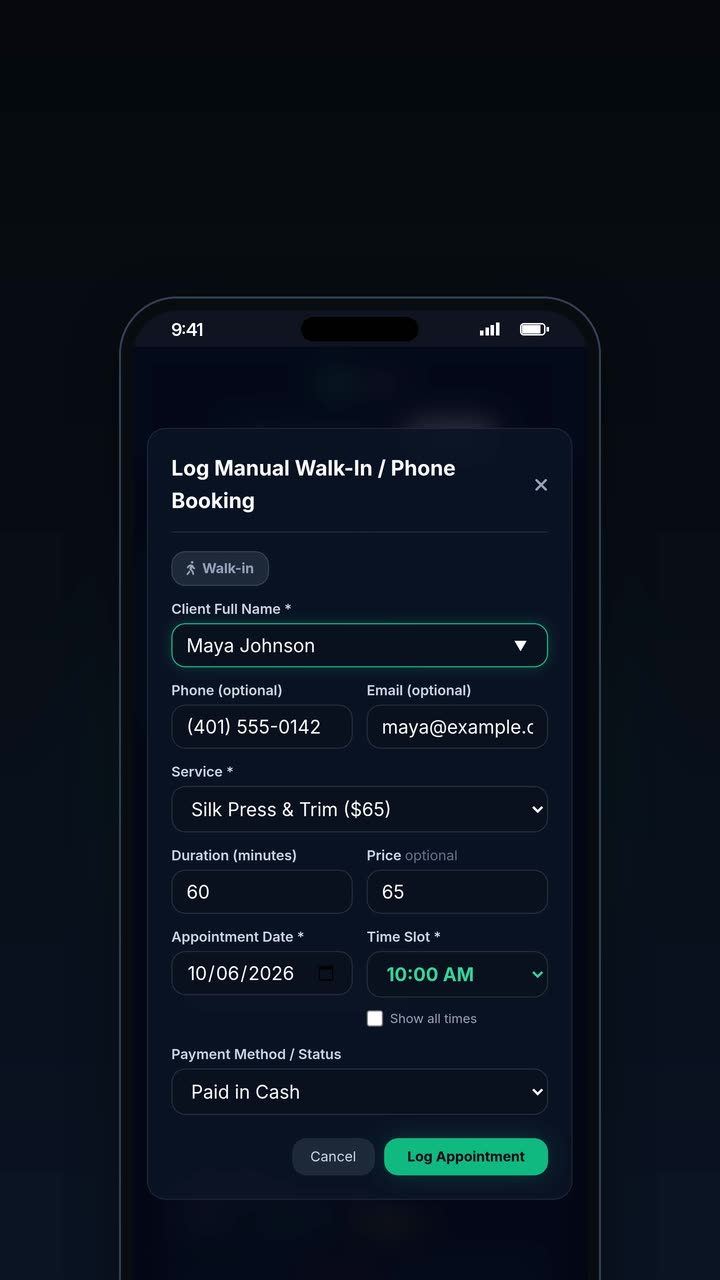
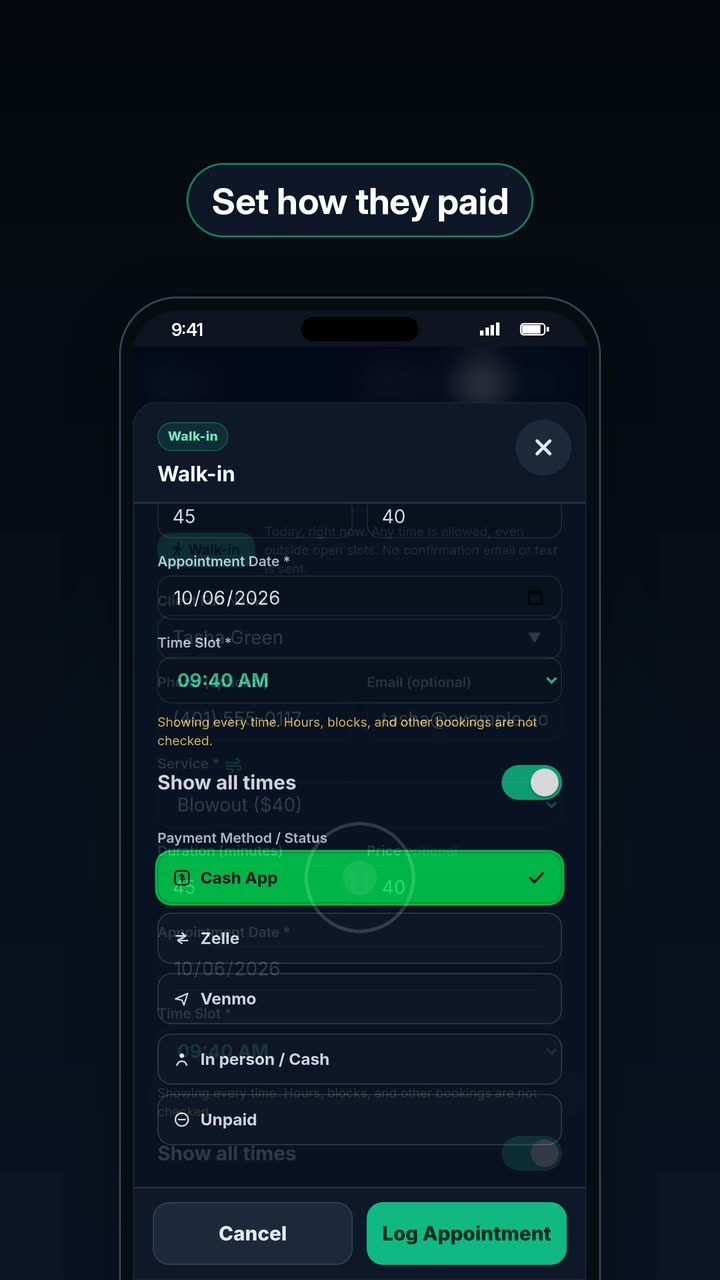
Label the re-shot walk-in help clip 0:22 and cache-bust clips at v=13.
The new poster for Add a walk-in or phone booking is included. Payment options stays at 0:28.

diff --git a/index.html b/index.html
@@ -9862,7 +9862,7 @@ body.schedi-newbook .schedi-manage-card #manageSlots button { min-height: 44px; 
         }
 
         // Help page tutorial videos (files in /assets/help-videos/). preload="none" + poster keeps page load light.
-        var SCHEDI_HELP_VIDEOS = [{"slug": "client-booking-demo", "file": "client-booking-demo.mp4?v=12", "poster": "client-booking-demo.jpg?v=12", "title": "How clients book", "desc": "Clients pick a service, a day and time, enter their info, choose how to pay, and send the request.", "dur": "0:30", "aud": "client"}, {"slug": "owner-01-create-your-page", "file": "owner-01-create-your-page.mp4?v=12", "poster": "owner-01-create-your-page.jpg?v=12", "title": "Create your booking page", "desc": "Sign up, get your free page, and compare Free, Starter, and Pro.", "dur": "0:24", "aud": "owner"}, {"slug": "owner-02-add-services", "file": "owner-02-add-services.mp4?v=12", "poster": "owner-02-add-services.jpg?v=12", "title": "Add your services", "desc": "Add each service with its length and an optional price.", "dur": "0:21", "aud": "owner"}, {"slug": "owner-03-set-hours", "file": "owner-03-set-hours.mp4?v=12", "poster": "owner-03-set-hours.jpg?v=12", "title": "Set your hours", "desc": "Pick the days you work and your open and close times.", "dur": "0:20", "aud": "owner"}, {"slug": "owner-04-payment-options", "file": "owner-04-payment-options.mp4?v=12", "poster": "owner-04-payment-options.jpg?v=12", "title": "Payment options", "desc": "Turn on Cash App, Zelle, Venmo, or PayPal (Starter and Pro) or keep pay at appointment.", "dur": "0:28", "aud": "owner"}, {"slug": "owner-05-share-booking-link", "file": "owner-05-share-booking-link.mp4?v=12", "poster": "owner-05-share-booking-link.jpg?v=12", "title": "Share your booking link", "desc": "Copy or Share your link from the top of your portal. Open Public Page and Add to home screen are in More & settings.", "dur": "0:20", "aud": "owner"}, {"slug": "owner-06-accept-booking-request", "file": "owner-06-accept-booking-request.mp4?v=12", "poster": "owner-06-accept-booking-request.jpg?v=12", "title": "Accept a booking request", "desc": "On phones, each booking is a card; tap Accept and it shows as Accepted (Starter and Pro).", "dur": "0:20", "aud": "owner"}, {"slug": "owner-07-appointments-report", "file": "owner-07-appointments-report.mp4?v=12", "poster": "owner-07-appointments-report.jpg?v=12", "title": "Reports", "desc": "See counts, recorded prices, marked paid, and walk-ins; export CSV or print.", "dur": "0:21", "aud": "owner"}, {"slug": "owner-08-add-manual-appointment", "file": "owner-08-add-manual-appointment.mp4?v=12", "poster": "owner-08-add-manual-appointment.jpg?v=12", "title": "Add a walk-in or phone booking", "desc": "Log a walk-in or phone booking with the Walk-in toggle, saved-client suggest, open time slot, and payment status.", "dur": "0:28", "aud": "owner"}, {"slug": "owner-09-mark-paid", "file": "owner-09-mark-paid.mp4?v=12", "poster": "owner-09-mark-paid.jpg?v=12", "title": "Mark an appointment paid", "desc": "Tap Mark paid, pick how the client paid, and the booking turns green.", "dur": "0:22", "aud": "owner"}, {"slug": "owner-10-reschedule", "file": "owner-10-reschedule.mp4?v=12", "poster": "owner-10-reschedule.jpg?v=12", "title": "Reschedule an appointment", "desc": "Pick a new date and an open time slot, then tap Update Reservation.", "dur": "0:23", "aud": "owner"}, {"slug": "owner-11-cancel-appointment", "file": "owner-11-cancel-appointment.mp4?v=12", "poster": "owner-11-cancel-appointment.jpg?v=12", "title": "Cancel an appointment", "desc": "Tap Cancel and confirm; the booking stays on your roster as Cancelled.", "dur": "0:20", "aud": "owner"}, {"slug": "owner-12-special-hours", "file": "owner-12-special-hours.mp4?v=12", "poster": "owner-12-special-hours.jpg?v=12", "title": "Special hours", "desc": "Close or change your hours for one date without touching your weekly hours.", "dur": "0:21", "aud": "owner"}, {"slug": "owner-13-date-blocks", "file": "owner-13-date-blocks.mp4?v=12", "poster": "owner-13-date-blocks.jpg?v=12", "title": "Time off and vacation", "desc": "Block a range of dates so clients cannot book them.", "dur": "0:22", "aud": "owner"}, {"slug": "owner-14-email-confirmations", "file": "owner-14-email-confirmations.mp4?v=12", "poster": "owner-14-email-confirmations.jpg?v=12", "title": "Email confirmations and reminders", "desc": "Set your Reply-To email, an extra note, and same-day reminder emails.", "dur": "0:23", "aud": "owner"}, {"slug": "owner-15-recurring-visits-pro", "file": "owner-15-recurring-visits-pro.mp4?v=12", "poster": "owner-15-recurring-visits-pro.jpg?v=12", "title": "Recurring appointments (Pro)", "desc": "On Pro, let clients book weekly, biweekly, or monthly; off until you turn it on.", "dur": "0:21", "aud": "owner"}, {"slug": "owner-16-clients", "file": "owner-16-clients.mp4?v=12", "poster": "owner-16-clients.jpg?v=12", "title": "Clients list", "desc": "Search, add, or remove clients. Auto-added clients show From booking since...", "dur": "0:24", "aud": "owner"}, {"slug": "owner-17-import-clients-csv", "file": "owner-17-import-clients-csv.mp4?v=12", "poster": "owner-17-import-clients-csv.jpg?v=12", "title": "Import clients from CSV", "desc": "Upload a CSV, match columns, preview, and import. Schedi never emails imports.", "dur": "0:22", "aud": "owner"}, {"slug": "owner-18-compare-plans", "file": "owner-18-compare-plans.mp4?v=12", "poster": "owner-18-compare-plans.jpg?v=12", "title": "Compare Plans", "desc": "Open the Free / Starter / Pro chart from your Schedi subscription card (below More & settings), including Agency Management on Pro.", "dur": "0:18", "aud": "owner"}, {"slug": "owner-19-roster-week-month", "file": "owner-19-roster-week-month.mp4?v=12", "poster": "owner-19-roster-week-month.jpg?v=12", "title": "Week and month roster", "desc": "Switch to Week or Month, move with Previous, Next, or Today, tap a booking for details, and tap a busy day.", "dur": "0:22", "aud": "owner"}, {"slug": "owner-20-booking-alerts-iphone", "file": "owner-20-booking-alerts-iphone.mp4?v=12", "poster": "owner-20-booking-alerts-iphone.jpg?v=12", "title": "Booking alerts on iPhone", "desc": "Turn on a pop-up on your iPhone when a booking comes in.", "dur": "", "aud": "owner", "kind": "guide"}, {"slug": "owner-22-booking-alerts-android", "file": "owner-22-booking-alerts-android.mp4?v=12", "poster": "owner-22-booking-alerts-android.jpg?v=12", "title": "Booking alerts on Android (Chrome)", "desc": "Turn on a pop-up in Chrome on Android when a booking comes in.", "dur": "0:29", "aud": "owner"}, {"slug": "owner-21-booking-qr-code", "file": "owner-21-booking-qr-code.mp4?v=12", "poster": "owner-21-booking-qr-code.jpg?v=12", "title": "Booking QR code", "desc": "How to show, generate, download or print, and save your booking QR code.", "dur": "", "aud": "owner"}];
+        var SCHEDI_HELP_VIDEOS = [{"slug": "client-booking-demo", "file": "client-booking-demo.mp4?v=13", "poster": "client-booking-demo.jpg?v=13", "title": "How clients book", "desc": "Clients pick a service, a day and time, enter their info, choose how to pay, and send the request.", "dur": "0:30", "aud": "client"}, {"slug": "owner-01-create-your-page", "file": "owner-01-create-your-page.mp4?v=13", "poster": "owner-01-create-your-page.jpg?v=13", "title": "Create your booking page", "desc": "Sign up, get your free page, and compare Free, Starter, and Pro.", "dur": "0:24", "aud": "owner"}, {"slug": "owner-02-add-services", "file": "owner-02-add-services.mp4?v=13", "poster": "owner-02-add-services.jpg?v=13", "title": "Add your services", "desc": "Add each service with its length and an optional price.", "dur": "0:21", "aud": "owner"}, {"slug": "owner-03-set-hours", "file": "owner-03-set-hours.mp4?v=13", "poster": "owner-03-set-hours.jpg?v=13", "title": "Set your hours", "desc": "Pick the days you work and your open and close times.", "dur": "0:20", "aud": "owner"}, {"slug": "owner-04-payment-options", "file": "owner-04-payment-options.mp4?v=13", "poster": "owner-04-payment-options.jpg?v=13", "title": "Payment options", "desc": "Turn on Cash App, Zelle, Venmo, or PayPal (Starter and Pro) or keep pay at appointment.", "dur": "0:28", "aud": "owner"}, {"slug": "owner-05-share-booking-link", "file": "owner-05-share-booking-link.mp4?v=13", "poster": "owner-05-share-booking-link.jpg?v=13", "title": "Share your booking link", "desc": "Copy or Share your link from the top of your portal. Open Public Page and Add to home screen are in More & settings.", "dur": "0:20", "aud": "owner"}, {"slug": "owner-06-accept-booking-request", "file": "owner-06-accept-booking-request.mp4?v=13", "poster": "owner-06-accept-booking-request.jpg?v=13", "title": "Accept a booking request", "desc": "On phones, each booking is a card; tap Accept and it shows as Accepted (Starter and Pro).", "dur": "0:20", "aud": "owner"}, {"slug": "owner-07-appointments-report", "file": "owner-07-appointments-report.mp4?v=13", "poster": "owner-07-appointments-report.jpg?v=13", "title": "Reports", "desc": "See counts, recorded prices, marked paid, and walk-ins; export CSV or print.", "dur": "0:21", "aud": "owner"}, {"slug": "owner-08-add-manual-appointment", "file": "owner-08-add-manual-appointment.mp4?v=13", "poster": "owner-08-add-manual-appointment.jpg?v=13", "title": "Add a walk-in or phone booking", "desc": "Log a walk-in or phone booking with the Walk-in toggle, saved-client suggest, open time slot, and payment status.", "dur": "0:22", "aud": "owner"}, {"slug": "owner-09-mark-paid", "file": "owner-09-mark-paid.mp4?v=13", "poster": "owner-09-mark-paid.jpg?v=13", "title": "Mark an appointment paid", "desc": "Tap Mark paid, pick how the client paid, and the booking turns green.", "dur": "0:22", "aud": "owner"}, {"slug": "owner-10-reschedule", "file": "owner-10-reschedule.mp4?v=13", "poster": "owner-10-reschedule.jpg?v=13", "title": "Reschedule an appointment", "desc": "Pick a new date and an open time slot, then tap Update Reservation.", "dur": "0:23", "aud": "owner"}, {"slug": "owner-11-cancel-appointment", "file": "owner-11-cancel-appointment.mp4?v=13", "poster": "owner-11-cancel-appointment.jpg?v=13", "title": "Cancel an appointment", "desc": "Tap Cancel and confirm; the booking stays on your roster as Cancelled.", "dur": "0:20", "aud": "owner"}, {"slug": "owner-12-special-hours", "file": "owner-12-special-hours.mp4?v=13", "poster": "owner-12-special-hours.jpg?v=13", "title": "Special hours", "desc": "Close or change your hours for one date without touching your weekly hours.", "dur": "0:21", "aud": "owner"}, {"slug": "owner-13-date-blocks", "file": "owner-13-date-blocks.mp4?v=13", "poster": "owner-13-date-blocks.jpg?v=13", "title": "Time off and vacation", "desc": "Block a range of dates so clients cannot book them.", "dur": "0:22", "aud": "owner"}, {"slug": "owner-14-email-confirmations", "file": "owner-14-email-confirmations.mp4?v=13", "poster": "owner-14-email-confirmations.jpg?v=13", "title": "Email confirmations and reminders", "desc": "Set your Reply-To email, an extra note, and same-day reminder emails.", "dur": "0:23", "aud": "owner"}, {"slug": "owner-15-recurring-visits-pro", "file": "owner-15-recurring-visits-pro.mp4?v=13", "poster": "owner-15-recurring-visits-pro.jpg?v=13", "title": "Recurring appointments (Pro)", "desc": "On Pro, let clients book weekly, biweekly, or monthly; off until you turn it on.", "dur": "0:21", "aud": "owner"}, {"slug": "owner-16-clients", "file": "owner-16-clients.mp4?v=13", "poster": "owner-16-clients.jpg?v=13", "title": "Clients list", "desc": "Search, add, or remove clients. Auto-added clients show From booking since...", "dur": "0:24", "aud": "owner"}, {"slug": "owner-17-import-clients-csv", "file": "owner-17-import-clients-csv.mp4?v=13", "poster": "owner-17-import-clients-csv.jpg?v=13", "title": "Import clients from CSV", "desc": "Upload a CSV, match columns, preview, and import. Schedi never emails imports.", "dur": "0:22", "aud": "owner"}, {"slug": "owner-18-compare-plans", "file": "owner-18-compare-plans.mp4?v=13", "poster": "owner-18-compare-plans.jpg?v=13", "title": "Compare Plans", "desc": "Open the Free / Starter / Pro chart from your Schedi subscription card (below More & settings), including Agency Management on Pro.", "dur": "0:18", "aud": "owner"}, {"slug": "owner-19-roster-week-month", "file": "owner-19-roster-week-month.mp4?v=13", "poster": "owner-19-roster-week-month.jpg?v=13", "title": "Week and month roster", "desc": "Switch to Week or Month, move with Previous, Next, or Today, tap a booking for details, and tap a busy day.", "dur": "0:22", "aud": "owner"}, {"slug": "owner-20-booking-alerts-iphone", "file": "owner-20-booking-alerts-iphone.mp4?v=13", "poster": "owner-20-booking-alerts-iphone.jpg?v=13", "title": "Booking alerts on iPhone", "desc": "Turn on a pop-up on your iPhone when a booking comes in.", "dur": "", "aud": "owner", "kind": "guide"}, {"slug": "owner-22-booking-alerts-android", "file": "owner-22-booking-alerts-android.mp4?v=13", "poster": "owner-22-booking-alerts-android.jpg?v=13", "title": "Booking alerts on Android (Chrome)", "desc": "Turn on a pop-up in Chrome on Android when a booking comes in.", "dur": "0:29", "aud": "owner"}, {"slug": "owner-21-booking-qr-code", "file": "owner-21-booking-qr-code.mp4?v=13", "poster": "owner-21-booking-qr-code.jpg?v=13", "title": "Booking QR code", "desc": "How to show, generate, download or print, and save your booking QR code.", "dur": "", "aud": "owner"}];
         var SCHEDI_HELP_VIDEO_GROUPS = [["Get set up", ["owner-01-create-your-page", "owner-02-add-services", "owner-03-set-hours", "owner-04-payment-options", "owner-05-share-booking-link", "owner-21-booking-qr-code", "owner-18-compare-plans"]], ["Bookings and the roster", ["owner-06-accept-booking-request", "owner-08-add-manual-appointment", "owner-09-mark-paid", "owner-10-reschedule", "owner-11-cancel-appointment", "owner-07-appointments-report", "owner-19-roster-week-month"]], ["Clients", ["owner-16-clients", "owner-17-import-clients-csv"]], ["Hours and time off", ["owner-12-special-hours", "owner-13-date-blocks"]], ["Emails and Pro features", ["owner-14-email-confirmations", "owner-15-recurring-visits-pro", "owner-20-booking-alerts-iphone", "owner-22-booking-alerts-android"]], ["What your clients see", ["client-booking-demo"]]];
         function schediHelpVideoPlayer(v) {
             var base = '/assets/help-videos/';

diff --git a/site/hq.html b/site/hq.html
@@ -5015,7 +5015,7 @@ html.schedi-newhq #hqDash [data-hqd-view][hidden] { display: none !important; }
         }
 
         // Help page tutorial videos (files in /assets/help-videos/). preload="none" + poster keeps page load light.
-        var SCHEDI_HELP_VIDEOS = [{"slug": "client-booking-demo", "file": "client-booking-demo.mp4?v=5", "poster": "client-booking-demo.jpg?v=5", "title": "How clients book", "desc": "Clients pick a service, a day and time, enter their info, choose how to pay, and send the request.", "dur": "0:30", "aud": "client"}, {"slug": "owner-01-create-your-page", "file": "owner-01-create-your-page.mp4?v=8", "poster": "owner-01-create-your-page.jpg?v=8", "title": "Create your booking page", "desc": "Sign up, get your free page, and compare Free, Starter, and Pro.", "dur": "0:24", "aud": "owner"}, {"slug": "owner-02-add-services", "file": "owner-02-add-services.mp4?v=8", "poster": "owner-02-add-services.jpg?v=8", "title": "Add your services", "desc": "Add each service with its length and an optional price.", "dur": "0:21", "aud": "owner"}, {"slug": "owner-03-set-hours", "file": "owner-03-set-hours.mp4?v=7", "poster": "owner-03-set-hours.jpg?v=7", "title": "Set your hours", "desc": "Pick the days you work and your open and close times.", "dur": "0:20", "aud": "owner"}, {"slug": "owner-04-payment-options", "file": "owner-04-payment-options.mp4?v=7", "poster": "owner-04-payment-options.jpg?v=7", "title": "Payment options", "desc": "Turn on Cash App, Zelle, Venmo, or PayPal (Starter and Pro) or keep pay at appointment.", "dur": "0:28", "aud": "owner"}, {"slug": "owner-05-share-booking-link", "file": "owner-05-share-booking-link.mp4?v=8", "poster": "owner-05-share-booking-link.jpg?v=8", "title": "Share your booking link", "desc": "Copy or Share your link from the top of your portal. Open Public Page and Add to home screen are in More & settings.", "dur": "0:20", "aud": "owner"}, {"slug": "owner-06-accept-booking-request", "file": "owner-06-accept-booking-request.mp4?v=8", "poster": "owner-06-accept-booking-request.jpg?v=8", "title": "Accept a booking request", "desc": "On phones, each booking is a card; tap Accept and it shows as Accepted (Starter and Pro).", "dur": "0:20", "aud": "owner"}, {"slug": "owner-07-appointments-report", "file": "owner-07-appointments-report.mp4?v=8", "poster": "owner-07-appointments-report.jpg?v=8", "title": "Appointments report", "desc": "See counts, recorded prices, marked paid, and walk-ins; export CSV or print.", "dur": "0:21", "aud": "owner"}, {"slug": "owner-08-add-manual-appointment", "file": "owner-08-add-manual-appointment.mp4?v=8", "poster": "owner-08-add-manual-appointment.jpg?v=8", "title": "Add a walk-in or phone booking", "desc": "Log a walk-in or phone booking with the Walk-in toggle, saved-client suggest, open time slot, and payment status.", "dur": "0:28", "aud": "owner"}, {"slug": "owner-09-mark-paid", "file": "owner-09-mark-paid.mp4?v=8", "poster": "owner-09-mark-paid.jpg?v=8", "title": "Mark an appointment paid", "desc": "Tap Mark paid, pick how the client paid, and the booking turns green.", "dur": "0:22", "aud": "owner"}, {"slug": "owner-10-reschedule", "file": "owner-10-reschedule.mp4?v=8", "poster": "owner-10-reschedule.jpg?v=8", "title": "Reschedule an appointment", "desc": "Pick a new date and an open time slot, then tap Update Reservation.", "dur": "0:23", "aud": "owner"}, {"slug": "owner-11-cancel-appointment", "file": "owner-11-cancel-appointment.mp4?v=8", "poster": "owner-11-cancel-appointment.jpg?v=8", "title": "Cancel an appointment", "desc": "Tap Cancel and confirm; the booking stays on your roster as Cancelled.", "dur": "0:20", "aud": "owner"}, {"slug": "owner-12-special-hours", "file": "owner-12-special-hours.mp4?v=8", "poster": "owner-12-special-hours.jpg?v=8", "title": "Special hours", "desc": "Close or change your hours for one date without touching your weekly hours.", "dur": "0:21", "aud": "owner"}, {"slug": "owner-13-date-blocks", "file": "owner-13-date-blocks.mp4?v=8", "poster": "owner-13-date-blocks.jpg?v=8", "title": "Vacation and date blocks", "desc": "Block a range of dates so clients cannot book them.", "dur": "0:22", "aud": "owner"}, {"slug": "owner-14-email-confirmations", "file": "owner-14-email-confirmations.mp4?v=7", "poster": "owner-14-email-confirmations.jpg?v=7", "title": "Email confirmations and reminders", "desc": "Set your Reply-To email, an extra note, and same-day reminder emails.", "dur": "0:23", "aud": "owner"}, {"slug": "owner-15-recurring-visits-pro", "file": "owner-15-recurring-visits-pro.mp4?v=7", "poster": "owner-15-recurring-visits-pro.jpg?v=7", "title": "Recurring appointments (Pro)", "desc": "On Pro, let clients book weekly, biweekly, or monthly; off until you turn it on.", "dur": "0:21", "aud": "owner"}, {"slug": "owner-16-clients", "file": "owner-16-clients.mp4?v=7", "poster": "owner-16-clients.jpg?v=7", "title": "Clients list", "desc": "Search, add, or remove clients. Auto-added clients show From booking since...", "dur": "0:24", "aud": "owner"}, {"slug": "owner-17-import-clients-csv", "file": "owner-17-import-clients-csv.mp4?v=8", "poster": "owner-17-import-clients-csv.jpg?v=8", "title": "Import clients from CSV", "desc": "Upload a CSV, match columns, preview, and import. Schedi never emails imports.", "dur": "0:22", "aud": "owner"}, {"slug": "owner-18-compare-plans", "file": "owner-18-compare-plans.mp4?v=8", "poster": "owner-18-compare-plans.jpg?v=8", "title": "Compare Plans", "desc": "Open the Free / Starter / Pro chart from your Schedi subscription card (below More & settings), including Agency Management on Pro.", "dur": "0:18", "aud": "owner"}, {"slug": "owner-19-roster-week-month", "file": "owner-19-roster-week-month.mp4?v=8", "poster": "owner-19-roster-week-month.jpg?v=8", "title": "Week and month roster", "desc": "Switch to Week or Month, move with Previous, Next, or Today, tap a booking for details, and tap a busy day.", "dur": "0:22", "aud": "owner"}];
+        var SCHEDI_HELP_VIDEOS = [{"slug": "client-booking-demo", "file": "client-booking-demo.mp4?v=5", "poster": "client-booking-demo.jpg?v=5", "title": "How clients book", "desc": "Clients pick a service, a day and time, enter their info, choose how to pay, and send the request.", "dur": "0:30", "aud": "client"}, {"slug": "owner-01-create-your-page", "file": "owner-01-create-your-page.mp4?v=8", "poster": "owner-01-create-your-page.jpg?v=8", "title": "Create your booking page", "desc": "Sign up, get your free page, and compare Free, Starter, and Pro.", "dur": "0:24", "aud": "owner"}, {"slug": "owner-02-add-services", "file": "owner-02-add-services.mp4?v=8", "poster": "owner-02-add-services.jpg?v=8", "title": "Add your services", "desc": "Add each service with its length and an optional price.", "dur": "0:21", "aud": "owner"}, {"slug": "owner-03-set-hours", "file": "owner-03-set-hours.mp4?v=7", "poster": "owner-03-set-hours.jpg?v=7", "title": "Set your hours", "desc": "Pick the days you work and your open and close times.", "dur": "0:20", "aud": "owner"}, {"slug": "owner-04-payment-options", "file": "owner-04-payment-options.mp4?v=7", "poster": "owner-04-payment-options.jpg?v=7", "title": "Payment options", "desc": "Turn on Cash App, Zelle, Venmo, or PayPal (Starter and Pro) or keep pay at appointment.", "dur": "0:28", "aud": "owner"}, {"slug": "owner-05-share-booking-link", "file": "owner-05-share-booking-link.mp4?v=8", "poster": "owner-05-share-booking-link.jpg?v=8", "title": "Share your booking link", "desc": "Copy or Share your link from the top of your portal. Open Public Page and Add to home screen are in More & settings.", "dur": "0:20", "aud": "owner"}, {"slug": "owner-06-accept-booking-request", "file": "owner-06-accept-booking-request.mp4?v=8", "poster": "owner-06-accept-booking-request.jpg?v=8", "title": "Accept a booking request", "desc": "On phones, each booking is a card; tap Accept and it shows as Accepted (Starter and Pro).", "dur": "0:20", "aud": "owner"}, {"slug": "owner-07-appointments-report", "file": "owner-07-appointments-report.mp4?v=8", "poster": "owner-07-appointments-report.jpg?v=8", "title": "Appointments report", "desc": "See counts, recorded prices, marked paid, and walk-ins; export CSV or print.", "dur": "0:21", "aud": "owner"}, {"slug": "owner-08-add-manual-appointment", "file": "owner-08-add-manual-appointment.mp4?v=8", "poster": "owner-08-add-manual-appointment.jpg?v=8", "title": "Add a walk-in or phone booking", "desc": "Log a walk-in or phone booking with the Walk-in toggle, saved-client suggest, open time slot, and payment status.", "dur": "0:22", "aud": "owner"}, {"slug": "owner-09-mark-paid", "file": "owner-09-mark-paid.mp4?v=8", "poster": "owner-09-mark-paid.jpg?v=8", "title": "Mark an appointment paid", "desc": "Tap Mark paid, pick how the client paid, and the booking turns green.", "dur": "0:22", "aud": "owner"}, {"slug": "owner-10-reschedule", "file": "owner-10-reschedule.mp4?v=8", "poster": "owner-10-reschedule.jpg?v=8", "title": "Reschedule an appointment", "desc": "Pick a new date and an open time slot, then tap Update Reservation.", "dur": "0:23", "aud": "owner"}, {"slug": "owner-11-cancel-appointment", "file": "owner-11-cancel-appointment.mp4?v=8", "poster": "owner-11-cancel-appointment.jpg?v=8", "title": "Cancel an appointment", "desc": "Tap Cancel and confirm; the booking stays on your roster as Cancelled.", "dur": "0:20", "aud": "owner"}, {"slug": "owner-12-special-hours", "file": "owner-12-special-hours.mp4?v=8", "poster": "owner-12-special-hours.jpg?v=8", "title": "Special hours", "desc": "Close or change your hours for one date without touching your weekly hours.", "dur": "0:21", "aud": "owner"}, {"slug": "owner-13-date-blocks", "file": "owner-13-date-blocks.mp4?v=8", "poster": "owner-13-date-blocks.jpg?v=8", "title": "Vacation and date blocks", "desc": "Block a range of dates so clients cannot book them.", "dur": "0:22", "aud": "owner"}, {"slug": "owner-14-email-confirmations", "file": "owner-14-email-confirmations.mp4?v=7", "poster": "owner-14-email-confirmations.jpg?v=7", "title": "Email confirmations and reminders", "desc": "Set your Reply-To email, an extra note, and same-day reminder emails.", "dur": "0:23", "aud": "owner"}, {"slug": "owner-15-recurring-visits-pro", "file": "owner-15-recurring-visits-pro.mp4?v=7", "poster": "owner-15-recurring-visits-pro.jpg?v=7", "title": "Recurring appointments (Pro)", "desc": "On Pro, let clients book weekly, biweekly, or monthly; off until you turn it on.", "dur": "0:21", "aud": "owner"}, {"slug": "owner-16-clients", "file": "owner-16-clients.mp4?v=7", "poster": "owner-16-clients.jpg?v=7", "title": "Clients list", "desc": "Search, add, or remove clients. Auto-added clients show From booking since...", "dur": "0:24", "aud": "owner"}, {"slug": "owner-17-import-clients-csv", "file": "owner-17-import-clients-csv.mp4?v=8", "poster": "owner-17-import-clients-csv.jpg?v=8", "title": "Import clients from CSV", "desc": "Upload a CSV, match columns, preview, and import. Schedi never emails imports.", "dur": "0:22", "aud": "owner"}, {"slug": "owner-18-compare-plans", "file": "owner-18-compare-plans.mp4?v=8", "poster": "owner-18-compare-plans.jpg?v=8", "title": "Compare Plans", "desc": "Open the Free / Starter / Pro chart from your Schedi subscription card (below More & settings), including Agency Management on Pro.", "dur": "0:18", "aud": "owner"}, {"slug": "owner-19-roster-week-month", "file": "owner-19-roster-week-month.mp4?v=8", "poster": "owner-19-roster-week-month.jpg?v=8", "title": "Week and month roster", "desc": "Switch to Week or Month, move with Previous, Next, or Today, tap a booking for details, and tap a busy day.", "dur": "0:22", "aud": "owner"}];
         var SCHEDI_HELP_VIDEO_GROUPS = [["Get set up", ["owner-01-create-your-page", "owner-02-add-services", "owner-03-set-hours", "owner-04-payment-options", "owner-05-share-booking-link", "owner-18-compare-plans"]], ["Bookings and the roster", ["owner-06-accept-booking-request", "owner-08-add-manual-appointment", "owner-09-mark-paid", "owner-10-reschedule", "owner-11-cancel-appointment", "owner-07-appointments-report", "owner-19-roster-week-month"]], ["Clients", ["owner-16-clients", "owner-17-import-clients-csv"]], ["Hours and time off", ["owner-12-special-hours", "owner-13-date-blocks"]], ["Emails and Pro features", ["owner-14-email-confirmations", "owner-15-recurring-visits-pro"]], ["What your clients see", ["client-booking-demo"]]];
         function schediHelpVideoCard(v) {
             var base = '/assets/help-videos/';

diff --git a/worker/content.ts b/worker/content.ts
@@ -133,29 +133,29 @@ const noShow =
   "A no-show still costs the time you held. The reminder email is the nudge the morning of the visit. Pro includes card checkout (Stripe) and appointment deposits. Card checkout stays off until Stripe card payments and payouts are active. The deposit stays off until you turn it on. A cancellation rule can be shown on the page. Charging that fee on a card is coming soon.";
 
 const HELP_VIDEOS: { slug: string; title: string; desc: string; dur: string; v: number }[] = [
-  { slug: "owner-01-create-your-page", title: "Create your booking page", desc: "Sign up and get your booking page ready in a few minutes.", dur: "0:24", v: 12 },
-  { slug: "owner-02-add-services", title: "Add your services", desc: "Add each service with its length and an optional price.", dur: "0:21", v: 12 },
-  { slug: "owner-03-set-hours", title: "Set your hours", desc: "Pick the days you work and your open and close times.", dur: "0:20", v: 12 },
-  { slug: "owner-04-payment-options", title: "Payment options", desc: "Turn on Cash App, Zelle, Venmo, or PayPal, or keep pay at appointment.", dur: "0:28", v: 12 },
-  { slug: "owner-05-share-booking-link", title: "Share your booking link", desc: "Copy or Share your link from the top of your portal. Open Public Page and Add to home screen are in More & settings.", dur: "0:20", v: 12 },
-  { slug: "owner-06-accept-booking-request", title: "Accept a booking request", desc: "On phones, each booking is a card. Tap Accept and it shows as Accepted.", dur: "0:20", v: 12 },
-  { slug: "owner-07-appointments-report", title: "Reports", desc: "See counts, recorded prices, marked paid, and walk-ins; export CSV or print.", dur: "0:21", v: 12 },
-  { slug: "owner-08-add-manual-appointment", title: "Add a walk-in or phone booking", desc: "Log a walk-in or phone booking with the Walk-in toggle, saved-client suggest, open time slot, and payment status.", dur: "0:28", v: 12 },
-  { slug: "owner-09-mark-paid", title: "Mark an appointment paid", desc: "Tap Mark paid, pick how the client paid, and the booking turns green.", dur: "0:22", v: 12 },
-  { slug: "owner-10-reschedule", title: "Reschedule an appointment", desc: "Pick a new date and an open time slot, then tap Update Reservation.", dur: "0:23", v: 12 },
-  { slug: "owner-11-cancel-appointment", title: "Cancel an appointment", desc: "Tap Cancel and confirm; the booking stays on your roster as Cancelled.", dur: "0:20", v: 12 },
-  { slug: "owner-12-special-hours", title: "Special hours", desc: "Close or change your hours for one date without touching your weekly hours.", dur: "0:21", v: 12 },
-  { slug: "owner-13-date-blocks", title: "Time off and vacation", desc: "Block a range of dates so clients cannot book them.", dur: "0:22", v: 12 },
-  { slug: "owner-14-email-confirmations", title: "Email confirmations and reminders", desc: "Set your Reply-To email, an extra note, and same-day reminder emails.", dur: "0:23", v: 12 },
-  { slug: "owner-15-recurring-visits-pro", title: "Recurring appointments", desc: "Let clients book weekly, every two weeks, or monthly. It stays off until you turn it on.", dur: "0:21", v: 12 },
-  { slug: "owner-16-clients", title: "Clients list", desc: "Search, add, or remove clients. Clients added from a booking are labeled so you can tell.", dur: "0:24", v: 12 },
-  { slug: "owner-17-import-clients-csv", title: "Import clients from CSV", desc: "Upload a CSV, match columns, preview, and import. Schedi never emails imports.", dur: "0:22", v: 12 },
-  { slug: "owner-18-compare-plans", title: "Compare plans", desc: "Open the plan chart from your Schedi subscription card to see what each plan includes.", dur: "0:18", v: 12 },
-  { slug: "owner-19-roster-week-month", title: "Week and month roster", desc: "Switch to Week or Month, move with Previous, Next, or Today, tap a booking for details, and tap a busy day.", dur: "0:22", v: 12 },
-  { slug: "owner-20-booking-alerts-iphone", title: "Booking alerts on iPhone", desc: "Turn on a pop-up on your iPhone when a booking comes in.", dur: "0:20", v: 12 },
-  { slug: "owner-22-booking-alerts-android", title: "Booking alerts on Android (Chrome)", desc: "Turn on a pop-up in Chrome on Android when a booking comes in.", dur: "0:29", v: 12 },
-  { slug: "owner-21-booking-qr-code", title: "Booking QR code", desc: "How to show, generate, download or print, and save your booking QR code.", dur: "0:25", v: 12 },
-  { slug: "client-booking-demo", title: "How clients book", desc: "Clients pick a service, a day and time, enter their info, and choose how to pay.", dur: "0:29", v: 12 },
+  { slug: "owner-01-create-your-page", title: "Create your booking page", desc: "Sign up and get your booking page ready in a few minutes.", dur: "0:24", v: 13 },
+  { slug: "owner-02-add-services", title: "Add your services", desc: "Add each service with its length and an optional price.", dur: "0:21", v: 13 },
+  { slug: "owner-03-set-hours", title: "Set your hours", desc: "Pick the days you work and your open and close times.", dur: "0:20", v: 13 },
+  { slug: "owner-04-payment-options", title: "Payment options", desc: "Turn on Cash App, Zelle, Venmo, or PayPal, or keep pay at appointment.", dur: "0:28", v: 13 },
+  { slug: "owner-05-share-booking-link", title: "Share your booking link", desc: "Copy or Share your link from the top of your portal. Open Public Page and Add to home screen are in More & settings.", dur: "0:20", v: 13 },
+  { slug: "owner-06-accept-booking-request", title: "Accept a booking request", desc: "On phones, each booking is a card. Tap Accept and it shows as Accepted.", dur: "0:20", v: 13 },
+  { slug: "owner-07-appointments-report", title: "Reports", desc: "See counts, recorded prices, marked paid, and walk-ins; export CSV or print.", dur: "0:21", v: 13 },
+  { slug: "owner-08-add-manual-appointment", title: "Add a walk-in or phone booking", desc: "Log a walk-in or phone booking with the Walk-in toggle, saved-client suggest, open time slot, and payment status.", dur: "0:22", v: 13 },
+  { slug: "owner-09-mark-paid", title: "Mark an appointment paid", desc: "Tap Mark paid, pick how the client paid, and the booking turns green.", dur: "0:22", v: 13 },
+  { slug: "owner-10-reschedule", title: "Reschedule an appointment", desc: "Pick a new date and an open time slot, then tap Update Reservation.", dur: "0:23", v: 13 },
+  { slug: "owner-11-cancel-appointment", title: "Cancel an appointment", desc: "Tap Cancel and confirm; the booking stays on your roster as Cancelled.", dur: "0:20", v: 13 },
+  { slug: "owner-12-special-hours", title: "Special hours", desc: "Close or change your hours for one date without touching your weekly hours.", dur: "0:21", v: 13 },
+  { slug: "owner-13-date-blocks", title: "Time off and vacation", desc: "Block a range of dates so clients cannot book them.", dur: "0:22", v: 13 },
+  { slug: "owner-14-email-confirmations", title: "Email confirmations and reminders", desc: "Set your Reply-To email, an extra note, and same-day reminder emails.", dur: "0:23", v: 13 },
+  { slug: "owner-15-recurring-visits-pro", title: "Recurring appointments", desc: "Let clients book weekly, every two weeks, or monthly. It stays off until you turn it on.", dur: "0:21", v: 13 },
+  { slug: "owner-16-clients", title: "Clients list", desc: "Search, add, or remove clients. Clients added from a booking are labeled so you can tell.", dur: "0:24", v: 13 },
+  { slug: "owner-17-import-clients-csv", title: "Import clients from CSV", desc: "Upload a CSV, match columns, preview, and import. Schedi never emails imports.", dur: "0:22", v: 13 },
+  { slug: "owner-18-compare-plans", title: "Compare plans", desc: "Open the plan chart from your Schedi subscription card to see what each plan includes.", dur: "0:18", v: 13 },
+  { slug: "owner-19-roster-week-month", title: "Week and month roster", desc: "Switch to Week or Month, move with Previous, Next, or Today, tap a booking for details, and tap a busy day.", dur: "0:22", v: 13 },
+  { slug: "owner-20-booking-alerts-iphone", title: "Booking alerts on iPhone", desc: "Turn on a pop-up on your iPhone when a booking comes in.", dur: "0:20", v: 13 },
+  { slug: "owner-22-booking-alerts-android", title: "Booking alerts on Android (Chrome)", desc: "Turn on a pop-up in Chrome on Android when a booking comes in.", dur: "0:29", v: 13 },
+  { slug: "owner-21-booking-qr-code", title: "Booking QR code", desc: "How to show, generate, download or print, and save your booking QR code.", dur: "0:25", v: 13 },
+  { slug: "client-booking-demo", title: "How clients book", desc: "Clients pick a service, a day and time, enter their info, and choose how to pay.", dur: "0:29", v: 13 },
 ];
 
 export const MARKETING_PAGES: MarketingPage[] = [

diff --git a/tests/help-videos.test.ts b/tests/help-videos.test.ts
@@ -39,25 +39,27 @@ describe("Help page videos", () => {
   const videos = portal.videos || [];
   const bySlug = new Map(videos.map((video) => [video.slug, video]));
 
-  it("cache-busts every portal clip and poster at v=12", () => {
+  it("cache-busts every portal clip and poster at v=13", () => {
     expect(videos.length).toBe(23);
     for (const video of videos) {
-      expect(video.file, video.slug).toMatch(/\.mp4\?v=12$/);
-      expect(video.poster, video.slug).toMatch(/\.jpg\?v=12$/);
-      expect(video.file, video.slug).toBe(`${video.slug}.mp4?v=12`);
-      expect(video.poster, video.slug).toBe(`${video.slug}.jpg?v=12`);
+      expect(video.file, video.slug).toMatch(/\.mp4\?v=13$/);
+      expect(video.poster, video.slug).toMatch(/\.jpg\?v=13$/);
+      expect(video.file, video.slug).toBe(`${video.slug}.mp4?v=13`);
+      expect(video.poster, video.slug).toBe(`${video.slug}.jpg?v=13`);
     }
-    expect(html.slice(html.indexOf("var SCHEDI_HELP_VIDEOS"), html.indexOf("var SCHEDI_HELP_VIDEO_GROUPS"))).not.toMatch(/\?v=(?!12)\d+/);
+    expect(html.slice(html.indexOf("var SCHEDI_HELP_VIDEOS"), html.indexOf("var SCHEDI_HELP_VIDEO_GROUPS"))).not.toMatch(/\?v=(?!13)\d+/);
   });
 
   it("renames the reports and time-off clips and adds the booking QR code", () => {
     expect(bySlug.get("owner-07-appointments-report")?.title).toBe("Reports");
+    expect(bySlug.get("owner-08-add-manual-appointment")?.dur).toBe("0:22");
+    expect(bySlug.get("owner-04-payment-options")?.dur).toBe("0:28");
     expect(bySlug.get("owner-13-date-blocks")?.title).toBe("Time off and vacation");
     expect(bySlug.get("owner-21-booking-qr-code")).toMatchObject({
       title: "Booking QR code",
       desc: "How to show, generate, download or print, and save your booking QR code.",
-      file: "owner-21-booking-qr-code.mp4?v=12",
-      poster: "owner-21-booking-qr-code.jpg?v=12",
+      file: "owner-21-booking-qr-code.mp4?v=13",
+      poster: "owner-21-booking-qr-code.jpg?v=13",
       aud: "owner",
     });
     const setup = portal.groups?.find((group) => group[0] === "Get set up");
@@ -67,8 +69,8 @@ describe("Help page videos", () => {
       title: "Booking alerts on Android (Chrome)",
       desc: "Turn on a pop-up in Chrome on Android when a booking comes in.",
       dur: "0:29",
-      file: "owner-22-booking-alerts-android.mp4?v=12",
-      poster: "owner-22-booking-alerts-android.jpg?v=12",
+      file: "owner-22-booking-alerts-android.mp4?v=13",
+      poster: "owner-22-booking-alerts-android.jpg?v=13",
       aud: "owner",
     });
     expect(android?.kind).toBeUndefined();
@@ -86,8 +88,8 @@ describe("Help page videos", () => {
     expect(player).toContain('width="720"');
     expect(player).toContain('height="1280"');
     expect(player).toContain("object-contain");
-    expect(player).toContain('poster="/assets/help-videos/client-booking-demo.jpg?v=12"');
-    expect(player).toContain('src="/assets/help-videos/client-booking-demo.mp4?v=12"');
+    expect(player).toContain('poster="/assets/help-videos/client-booking-demo.jpg?v=13"');
+    expect(player).toContain('src="/assets/help-videos/client-booking-demo.mp4?v=13"');
     expect(html).toContain("aspect-ratio: 9 / 16");
     expect(html).toContain("object-fit: contain");
   });
@@ -97,22 +99,23 @@ describe("Help page videos", () => {
     const rendered = renderMarketingPage(page!);
     const sources = rendered.match(/\/assets\/help-videos\/[^"']+/g) || [];
     expect(sources.length).toBe(46);
-    for (const url of sources) expect(url).toMatch(/\.(mp4|jpg)\?v=12$/);
+    for (const url of sources) expect(url).toMatch(/\.(mp4|jpg)\?v=13$/);
     expect(rendered).toContain(">Reports<");
     expect(rendered).toContain(">Time off and vacation<");
     expect(rendered).not.toContain("Appointments report");
     expect(rendered).not.toContain("Vacation and date blocks");
-    expect(rendered).toContain("/assets/help-videos/owner-20-booking-alerts-iphone.mp4?v=12");
-    expect(rendered).toContain("/assets/help-videos/owner-20-booking-alerts-iphone.jpg?v=12");
-    expect(rendered).toContain("/assets/help-videos/owner-22-booking-alerts-android.mp4?v=12");
-    expect(rendered).toContain("/assets/help-videos/owner-22-booking-alerts-android.jpg?v=12");
+    expect(rendered).toContain("/assets/help-videos/owner-20-booking-alerts-iphone.mp4?v=13");
+    expect(rendered).toContain("/assets/help-videos/owner-20-booking-alerts-iphone.jpg?v=13");
+    expect(rendered).toContain("/assets/help-videos/owner-22-booking-alerts-android.mp4?v=13");
+    expect(rendered).toContain("/assets/help-videos/owner-22-booking-alerts-android.jpg?v=13");
     expect(rendered).toContain("<strong>Booking alerts on Android (Chrome)</strong> (0:29). Turn on a pop-up in Chrome on Android when a booking comes in.");
     expect(rendered.indexOf("owner-22-booking-alerts-android")).toBeGreaterThan(rendered.indexOf("owner-20-booking-alerts-iphone"));
     expect(rendered.indexOf("owner-22-booking-alerts-android")).toBeLessThan(rendered.indexOf("owner-21-booking-qr-code"));
-    expect(rendered).toContain("/assets/help-videos/owner-21-booking-qr-code.mp4?v=12");
-    expect(rendered).toContain("/assets/help-videos/owner-21-booking-qr-code.jpg?v=12");
+    expect(rendered).toContain("/assets/help-videos/owner-21-booking-qr-code.mp4?v=13");
+    expect(rendered).toContain("/assets/help-videos/owner-21-booking-qr-code.jpg?v=13");
     expect(rendered).toContain("How to show, generate, download or print, and save your booking QR code.");
     expect(rendered).toContain("<strong>Booking alerts on iPhone</strong> (0:20). Turn on a pop-up on your iPhone when a booking comes in.");
+    expect(rendered).toContain("<strong>Add a walk-in or phone booking</strong> (0:22). Log a walk-in or phone booking with the Walk-in toggle, saved-client suggest, open time slot, and payment status.");
     expect(rendered).toContain("<strong>Booking QR code</strong> (0:25). How to show, generate, download or print, and save your booking QR code.");
     expect(rendered).not.toMatch(/<\/strong> \./);
     expect(rendered).toContain('width="720" height="1280"');

diff --git a/tests/booking-alerts-iphone-help.test.ts b/tests/booking-alerts-iphone-help.test.ts
@@ -57,8 +57,8 @@ describe("Booking alerts on iPhone help guide", () => {
   it("plays the iPhone alerts clip in the owner list", () => {
     expect(help.guide).toMatchObject({
       slug: "owner-20-booking-alerts-iphone",
-      file: "owner-20-booking-alerts-iphone.mp4?v=12",
-      poster: "owner-20-booking-alerts-iphone.jpg?v=12",
+      file: "owner-20-booking-alerts-iphone.mp4?v=13",
+      poster: "owner-20-booking-alerts-iphone.jpg?v=13",
       title: "Booking alerts on iPhone",
       kind: "guide",
       aud: "owner",
@@ -69,13 +69,13 @@ describe("Booking alerts on iPhone help guide", () => {
     expect(help.owner).toContain('id="owner-22-booking-alerts-android"');
     expect(help.owner.indexOf('id="owner-22-booking-alerts-android"')).toBeGreaterThan(help.owner.indexOf('id="owner-20-booking-alerts-iphone"'));
     expect(help.owner).toContain("Booking alerts on Android (Chrome)");
-    expect(help.owner).toContain('src="/assets/help-videos/owner-22-booking-alerts-android.mp4?v=12"');
+    expect(help.owner).toContain('src="/assets/help-videos/owner-22-booking-alerts-android.mp4?v=13"');
     expect(help.owner).toContain('id="owner-20-booking-alerts-iphone"');
     expect(help.owner).toContain('class="schedi-help-guide');
     expect(help.card).toContain('data-video-slug="owner-20-booking-alerts-iphone"');
     expect(help.card).toContain("<video");
-    expect(help.card).toContain('src="/assets/help-videos/owner-20-booking-alerts-iphone.mp4?v=12"');
-    expect(help.card).toContain('poster="/assets/help-videos/owner-20-booking-alerts-iphone.jpg?v=12"');
+    expect(help.card).toContain('src="/assets/help-videos/owner-20-booking-alerts-iphone.mp4?v=13"');
+    expect(help.card).toContain('poster="/assets/help-videos/owner-20-booking-alerts-iphone.jpg?v=13"');
     expect(help.card).toContain('width="720"');
     expect(help.card).toContain('height="1280"');
     expect(help.empty).toContain("hidden");
